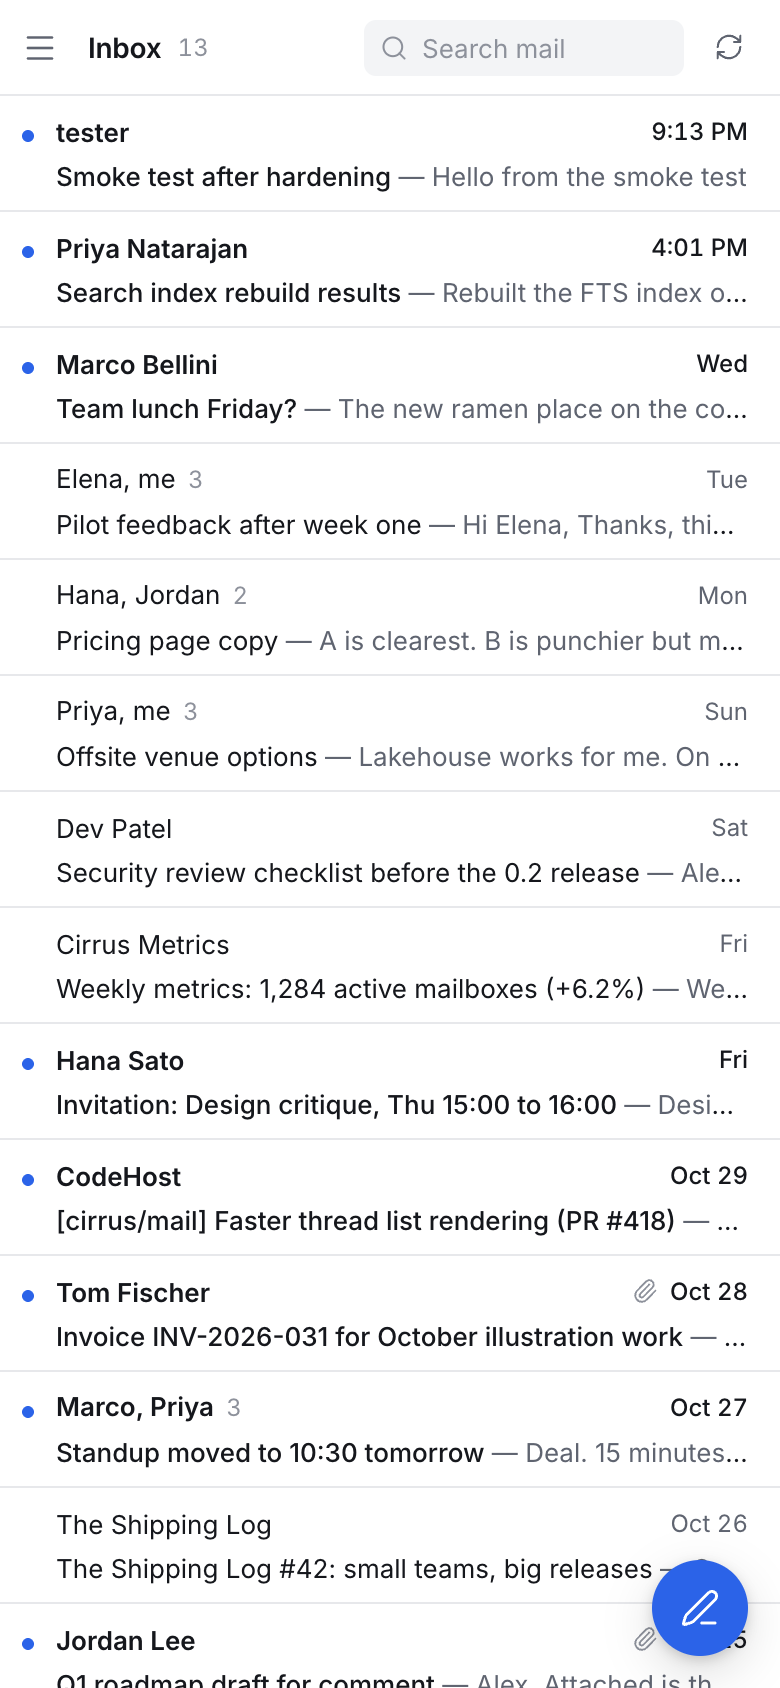
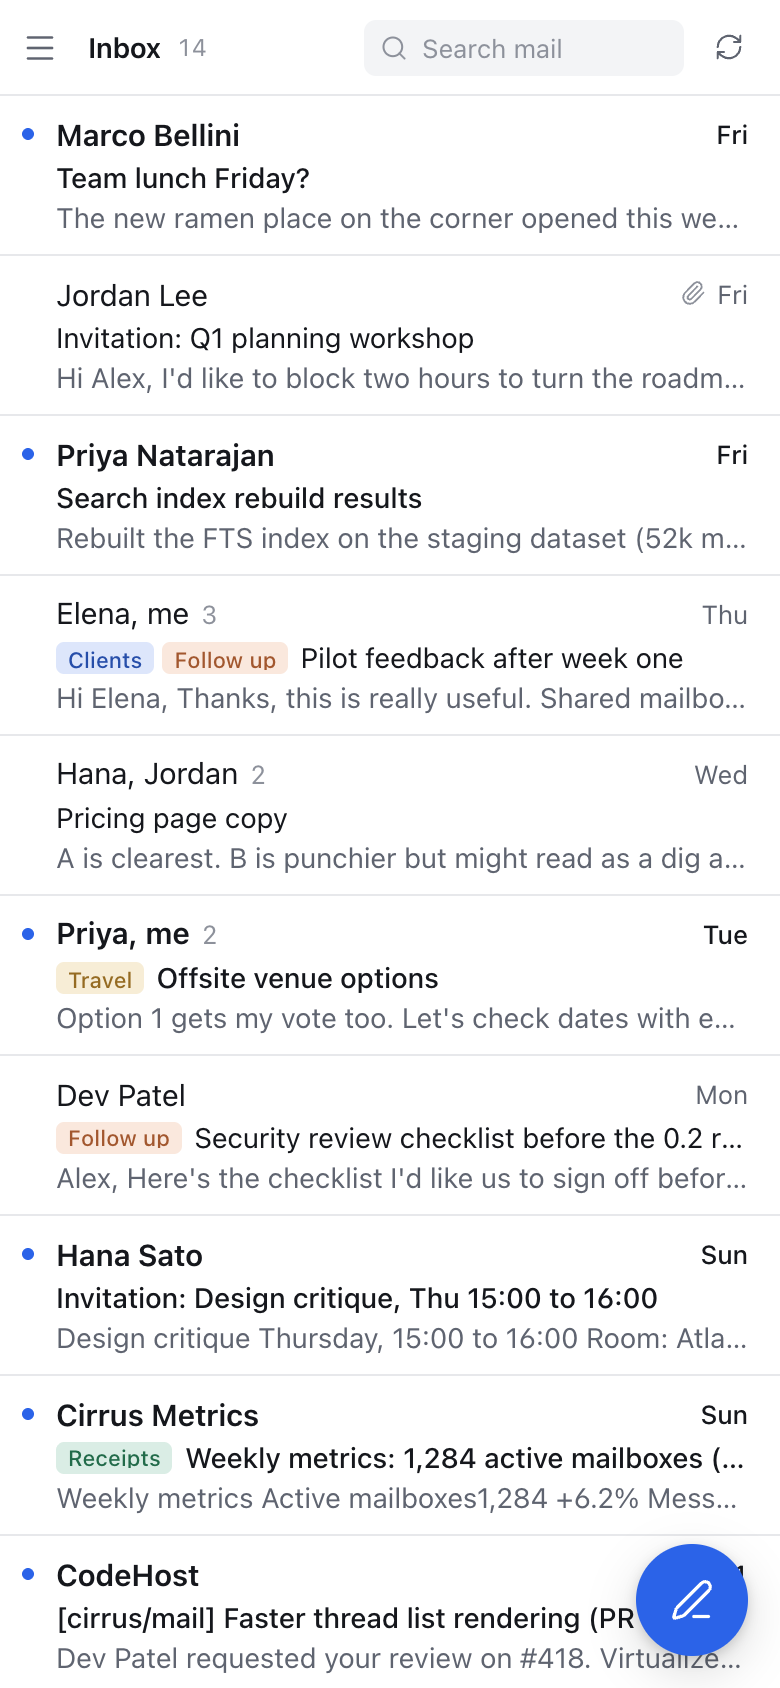
docs: refresh screenshots and show the new features
New captures of the calendar week view, contacts, an invite card,
labels in the reader and the Security settings; the existing shots
are retaken. The demo seed now creates labels, a snoozed thread,
contacts, events and an .ics invite, and a local-only step spreads
message dates over two weeks so the list looks real.

Changed region(s): [[0.0308, 0.0616, 0.9538, 0.8009], [0.0615, 0.8318, 0.9538, 1.0], [0.7077, 0.0, 0.7385, 0.0308]]

diff --git a/README.md b/README.md
@@ -30,8 +30,12 @@
     <td width="50%"><img src="docs/screenshots/inbox-dark.png" alt="Inbox, dark theme"></td>
   </tr>
   <tr>
-    <td><img src="docs/screenshots/compose.png" alt="Composing a message"></td>
-    <td><img src="docs/screenshots/admin-domains.png" alt="Admin: domains and DNS check"></td>
+    <td><img src="docs/screenshots/calendar.png" alt="Calendar, week view"></td>
+    <td><img src="docs/screenshots/invite.png" alt="Meeting invitation card in a message"></td>
+  </tr>
+  <tr>
+    <td><img src="docs/screenshots/contacts.png" alt="Contacts"></td>
+    <td><img src="docs/screenshots/settings-security.png" alt="Settings: passkeys, app passwords and CardDAV/CalDAV sync"></td>
   </tr>
   <tr>
     <td colspan="2" align="center"><img src="docs/screenshots/mobile.png" alt="Cirrus Mail on a phone" width="320"></td>
